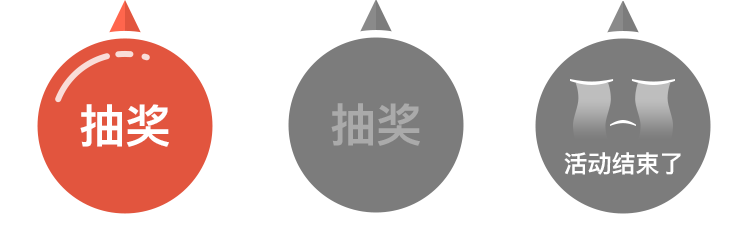
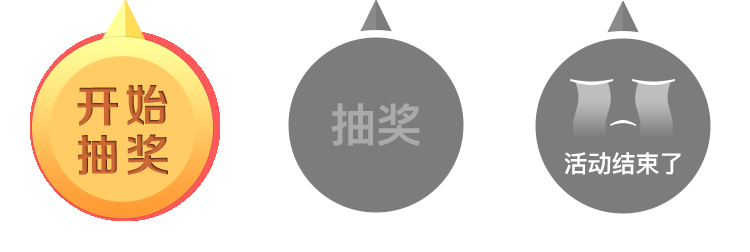
完成大转盘

Changed region(s): [[0.0307, 0.0, 0.3067, 0.8889]]

diff --git a/src/base/dialog/login.vue b/src/base/dialog/login.vue
@@ -1,27 +1,31 @@
 <template>
-  <div class="contain">
-    <div class="weui-skin_android" id="androidActionsheet" style="opacity: 1;" v-show="visible">
-      <div class="weui-mask" @click="tap"></div>
-      <div class="weui-actionsheet">
-        <div class="weui-actionsheet__menu">
-          <div class="shareTitle">
-            实名信息
-            <i class="weui-icon-cancel x_cg" @click="tap"></i>
+  <div class="contain" v-show="visible" v-bind:style="'top:' + logintop + 'px;'">
+    <div class="card">
+      <!--标题 start-->
+      <div class="title">恭喜您！</div>
+      <div class="txt">获得二等奖牛股二</div>
+      <!--标题 end-->
+      <!--输入框 start-->
+      <div class="c_input">
+        <div class="weui-flex">
+          <div class="txt c_left">姓名:</div>
+          <div class="weui-flex__item inputitem">
+            <input class="weui-input" type="text" placeholder="">
           </div>
-          <div class="weui-cell">
-            <div class="weui-cell__bd">
-              <input class="weui-input" type="text" placeholder="请输入真实姓名" v-model="name">
-            </div>
+        </div>
+        <div class="weui-flex we-tel">
+          <div class="txt c_left">电话:</div>
+          <div class="weui-flex__item inputitem">
+            <input class="weui-input" type="text" placeholder="">
           </div>
-          <div class="weui-cell input_2">
-            <div class="weui-cell__bd">
-              <input class="weui-input" type="text" placeholder="请输入身份证号" v-model="number">
-            </div>
-          </div>
-          <div class="btn" @click="tap">修改</div>
-          <div class="he"></div>
         </div>
       </div>
+      <!--输入框 end-->
+
+      <!--提交按钮 start-->
+      <div class="bottom-btn">提交</div>
+      <!--提交按钮 end-->
+
     </div>
   </div>
 </template>
@@ -35,7 +39,8 @@
       }
     },
     props: {
-      visible: Boolean
+      visible: Boolean,
+      logintop: Number
     },
     methods: {
       // 点击隐藏弹出层
@@ -62,42 +67,51 @@
 
 <style scoped lang="stylus" rel="stylesheet/stylus">
 @import '~@/common/stylus/variable';
-.shareTitle
-  padding-top _c(44)
-  padding-left _c(30)
-  font-size $font-size-20
-  color #000000
-  text-align center
-  position relative
-  .x_cg
-    float right
-    position absolute
-    right _c(30)
-.shareMenu
-  width _c(450)
-  margin _c(35) auto
-  text-align center
-  padding-bottom _c(35)
-  .shareIcon
-    width _c(48)
-    height _c(48)
-    margin 0 auto
-    img
-      width 100%
-      height 100%
-  .shareItem
-    font-size $font-size-16
-    color #000000
-    margin-top _c(15)
-.btn
-  margin-left _c(30)
-  margin-right _c(30)
-  margin-top _c(0)
-.he
-  height _c(30)
-.weui-cell:before
-  border 0
-  height 0
-.input_2
-  padding-top _c(0)
+.contain
+  position absolute
+  top 190px
+  width 100%
+  .card
+    margin-left 18px
+    margin-right 18px
+    height cp(675)
+    background #fdc9c8
+    border-radius 50px
+    overflow hidden
+    .title
+      text-align center
+      color red
+      font-size 36px
+      line-height 36px
+      margin-top cp(54)
+    .txt
+      text-align center
+      color #7a3008
+      font-size 24px
+      line-height 24px
+      margin-top cp(42)
+    .c_input
+      padding-left cp(46)
+      padding-right cp(46)
+      margin-top cp(72)
+      .c_left
+        margin-top 0
+        line-height cp(68)
+      .inputitem
+        padding-left cp(16)
+        .weui-input
+          background #fff
+          border-radius 50px
+          height cp(68)
+      .we-tel
+        margin-top cp(58)
+  .bottom-btn
+    font-size 20px
+    margin cp(60) auto
+    width cp(234)
+    height cp(68)
+    line-height cp(68)
+    border-radius 50px
+    background #7a3207
+    color #fff
 </style>

diff --git a/src/base/game/static/css/kinerLottery.css b/src/base/game/static/css/kinerLottery.css
@@ -15,9 +15,21 @@ html { font-size: 20px; }
 @media only screen and (min-width:641px) {
     html { font-size: 40px !important; }
 }
-html, body { padding: 0; margin: 0; background: #fffeea; height: 100%; }
 p, li, b, span, div, strong, h1, h2, h3, h4, h5, h6, a, ul { margin: 0; padding: 0; text-decoration: none; list-style: none; -webkit-user-select: none; -moz-user-select: none; -ms-user-select: none; user-select: none; }
-.box { width: 14rem; height: 14rem; position: relative; margin: 0 auto; position: absolute; top: 50%; left: 50%; transform: translate(-50%, -50%); -webkit-transform: translate(-50%, -50%); -moz-transform: translate(-50%, -50%); -ms-transform: translate(-50%, -50%); -o-transform: translate(-50%, -50%); }
+.box { 
+    width: 300px; 
+    height: 300px;
+    /* position: relative;  */
+    /* margin: 100px auto; */
+    /* position: absolute;
+    top: 50%; left: 50%;  */
+    transform: translate(-50%, -50%); 
+    -webkit-transform: translate(-50%, -50%); 
+    -moz-transform: translate(-50%, -50%); 
+    -ms-transform: translate(-50%, -50%);
+    -o-transform: translate(-50%, -50%); 
+    /* border: 1px solid #000000; */
+}
 .box .outer { width: 100%; height: 100%; position: absolute; z-index: 1; top: 0; left: 0; transform: rotate(0deg); -webkit-transform: rotate(0deg); -moz-transform: rotate(0deg); -ms-transform: rotate(0deg); -o-transform: rotate(0deg); }
 .box .outer img { width: 100%; }
 .box .inner { position: relative; width: 5rem; height: 5rem; left: 50%; top: 50%; -webkit-transform: translate(-50%, -50%); -moz-transform: translate(-50%, -50%); -ms-transform: translate(-50%, -50%); -o-transform: translate(-50%, -50%); transform: translate(-50%, -50%); z-index: 2; background-image: url(../images/arrow.png); background-size: auto 5rem; background-repeat: no-repeat; }

diff --git a/src/components/turntable/turntable.vue b/src/components/turntable/turntable.vue
@@ -1,10 +1,10 @@
 <template>
   <div class="bg" v-bind:style="'height:' + height + 'px;'">
     <!--大转盘 start-->
-    <RouletteWheel @callback="tanchu"></RouletteWheel>
+    <RouletteWheel  v-bind:style="'top:' + top + 'px;'" @callback="tanchu" class="wheel" :wheelLen="wheelLen"></RouletteWheel>
     <!--大转盘 end-->
     <!--弹出层 start-->
-    <Login :visible.sync="visible"></Login>
+    <Login :visible.sync="visible" :logintop="logintop"></Login>
     <!--弹出层 end-->
   </div>
 </template>
@@ -26,7 +26,10 @@
       return {
         msg: 'Welcome to Your Vue.js App',
         visible: false,
-        height: 1000
+        height: 1000,
+        wheelLen: 300,
+        top: 355,
+        logintop: 190
       }
     },
     methods: {
@@ -35,6 +38,9 @@
         var img = new Image()
         img.src = require('./images/bg.png')
         this.height = (window.screen.width / img.width) * img.height
+        this.wheelLen = (window.screen.width / img.width) * 526
+        this.top = (window.screen.width / img.width) * 655
+        this.logintop = (window.screen.width / img.width) * 370
       },
       init() {
         this._bgHeight()
@@ -57,4 +63,10 @@
   background-image url(./images/bg.png)
   background-repeat no-repeat
   background-size 100% 100%
+  position relative
+  .wheel
+    // border 1px solid #000
+    position absolute
+    top 355px
+    left 50% 
 </style>

diff --git a/src/base/game/Wheel.vue b/src/base/game/Wheel.vue
@@ -1,5 +1,5 @@
 <template>
-	<div id="box" class="box">
+	<div id="box" class="box" v-bind:style="'height:'+ wheelLen +'px;width:' + wheelLen + 'px;'">
 		<div class="outer KinerLottery KinerLotteryContent">
 		<img src="./static/images/lanren.png"></div>
 		<!-- 大专盘分为三种状态：活动未开始（no-start）、活动进行中(start)、活动结束(completed),可通过切换class进行切换状态，js会根据这3个class进行匹配状态 -->
@@ -17,6 +17,11 @@
 		data() {
 			return {
 				wheel: {}
+			}
+		},
+		props:{
+			wheelLen: {
+				
 			}
 		},
 		methods: {
